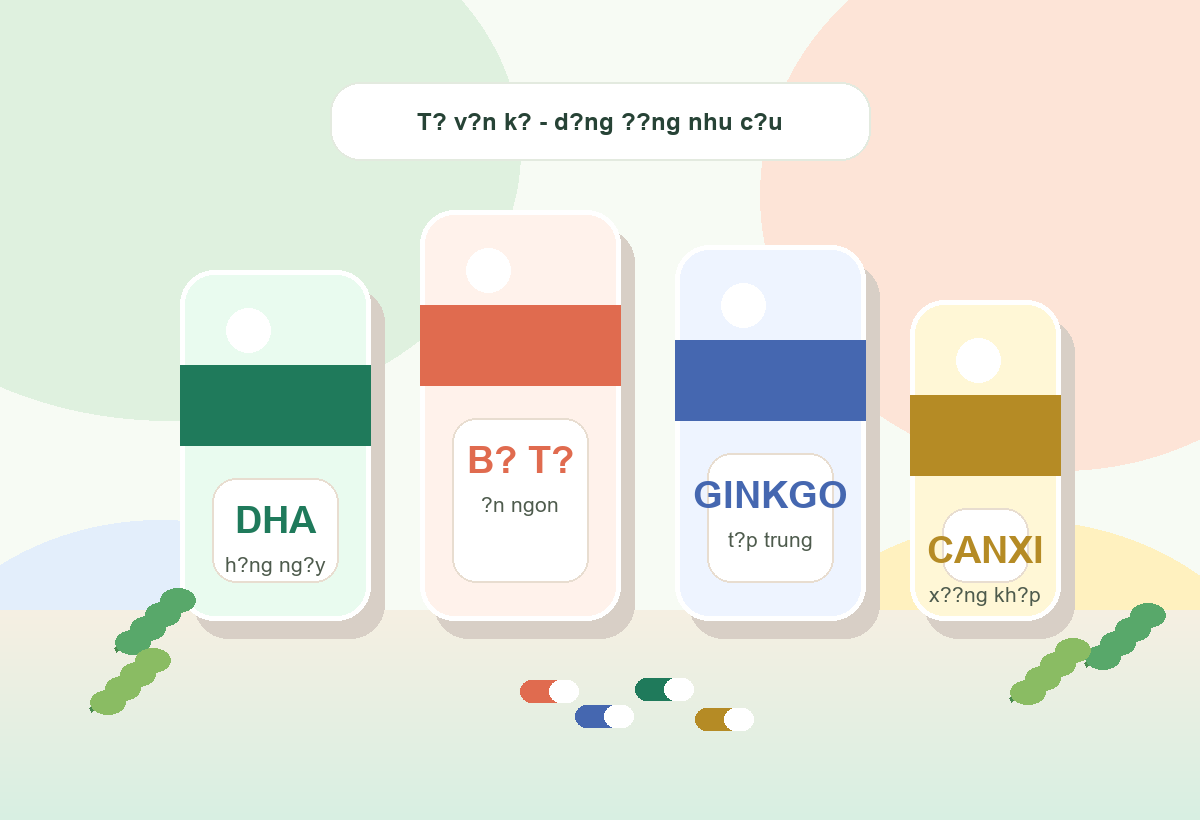
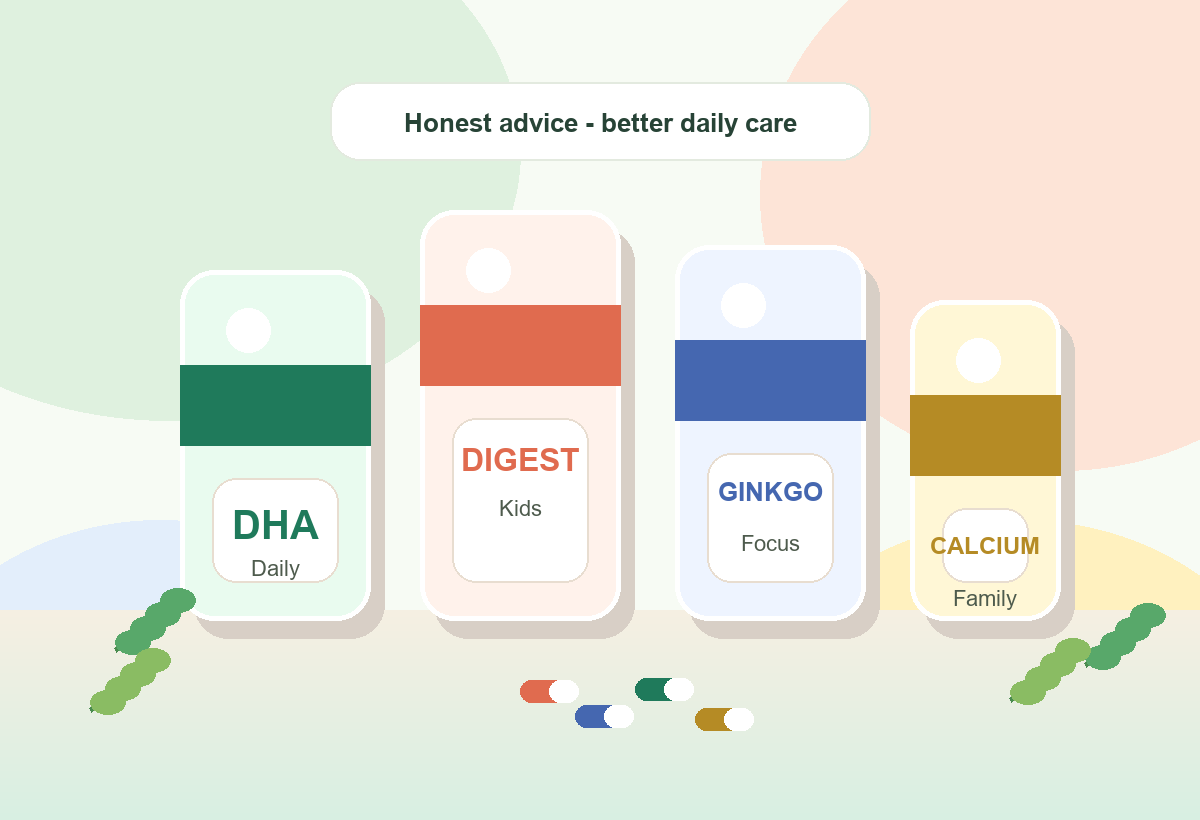
Fix Vietnamese heading font rendering

diff --git a/frontend/src/App.css b/frontend/src/App.css
@@ -128,14 +128,17 @@
 .section-heading h2 {
   margin: 0;
   color: #17372a;
-  font-family: Georgia, 'Times New Roman', serif;
-  line-height: 1.02;
+  font-family: Inter, 'Segoe UI', Arial, sans-serif;
+  font-weight: 900;
+  line-height: 1.08;
   letter-spacing: 0;
+  overflow-wrap: normal;
+  word-break: normal;
 }
 
 .hero-copy h1 {
-  max-width: 780px;
-  font-size: clamp(2.5rem, 5.2vw, 5.9rem);
+  max-width: 720px;
+  font-size: clamp(2.3rem, 4.35vw, 4.75rem);
 }
 
 .hero-text,
@@ -260,7 +263,7 @@
 
 .section-block h2,
 .section-heading h2 {
-  font-size: clamp(2rem, 3.2vw, 3.7rem);
+  font-size: clamp(1.9rem, 2.75vw, 3.15rem);
 }
 
 .product-grid {